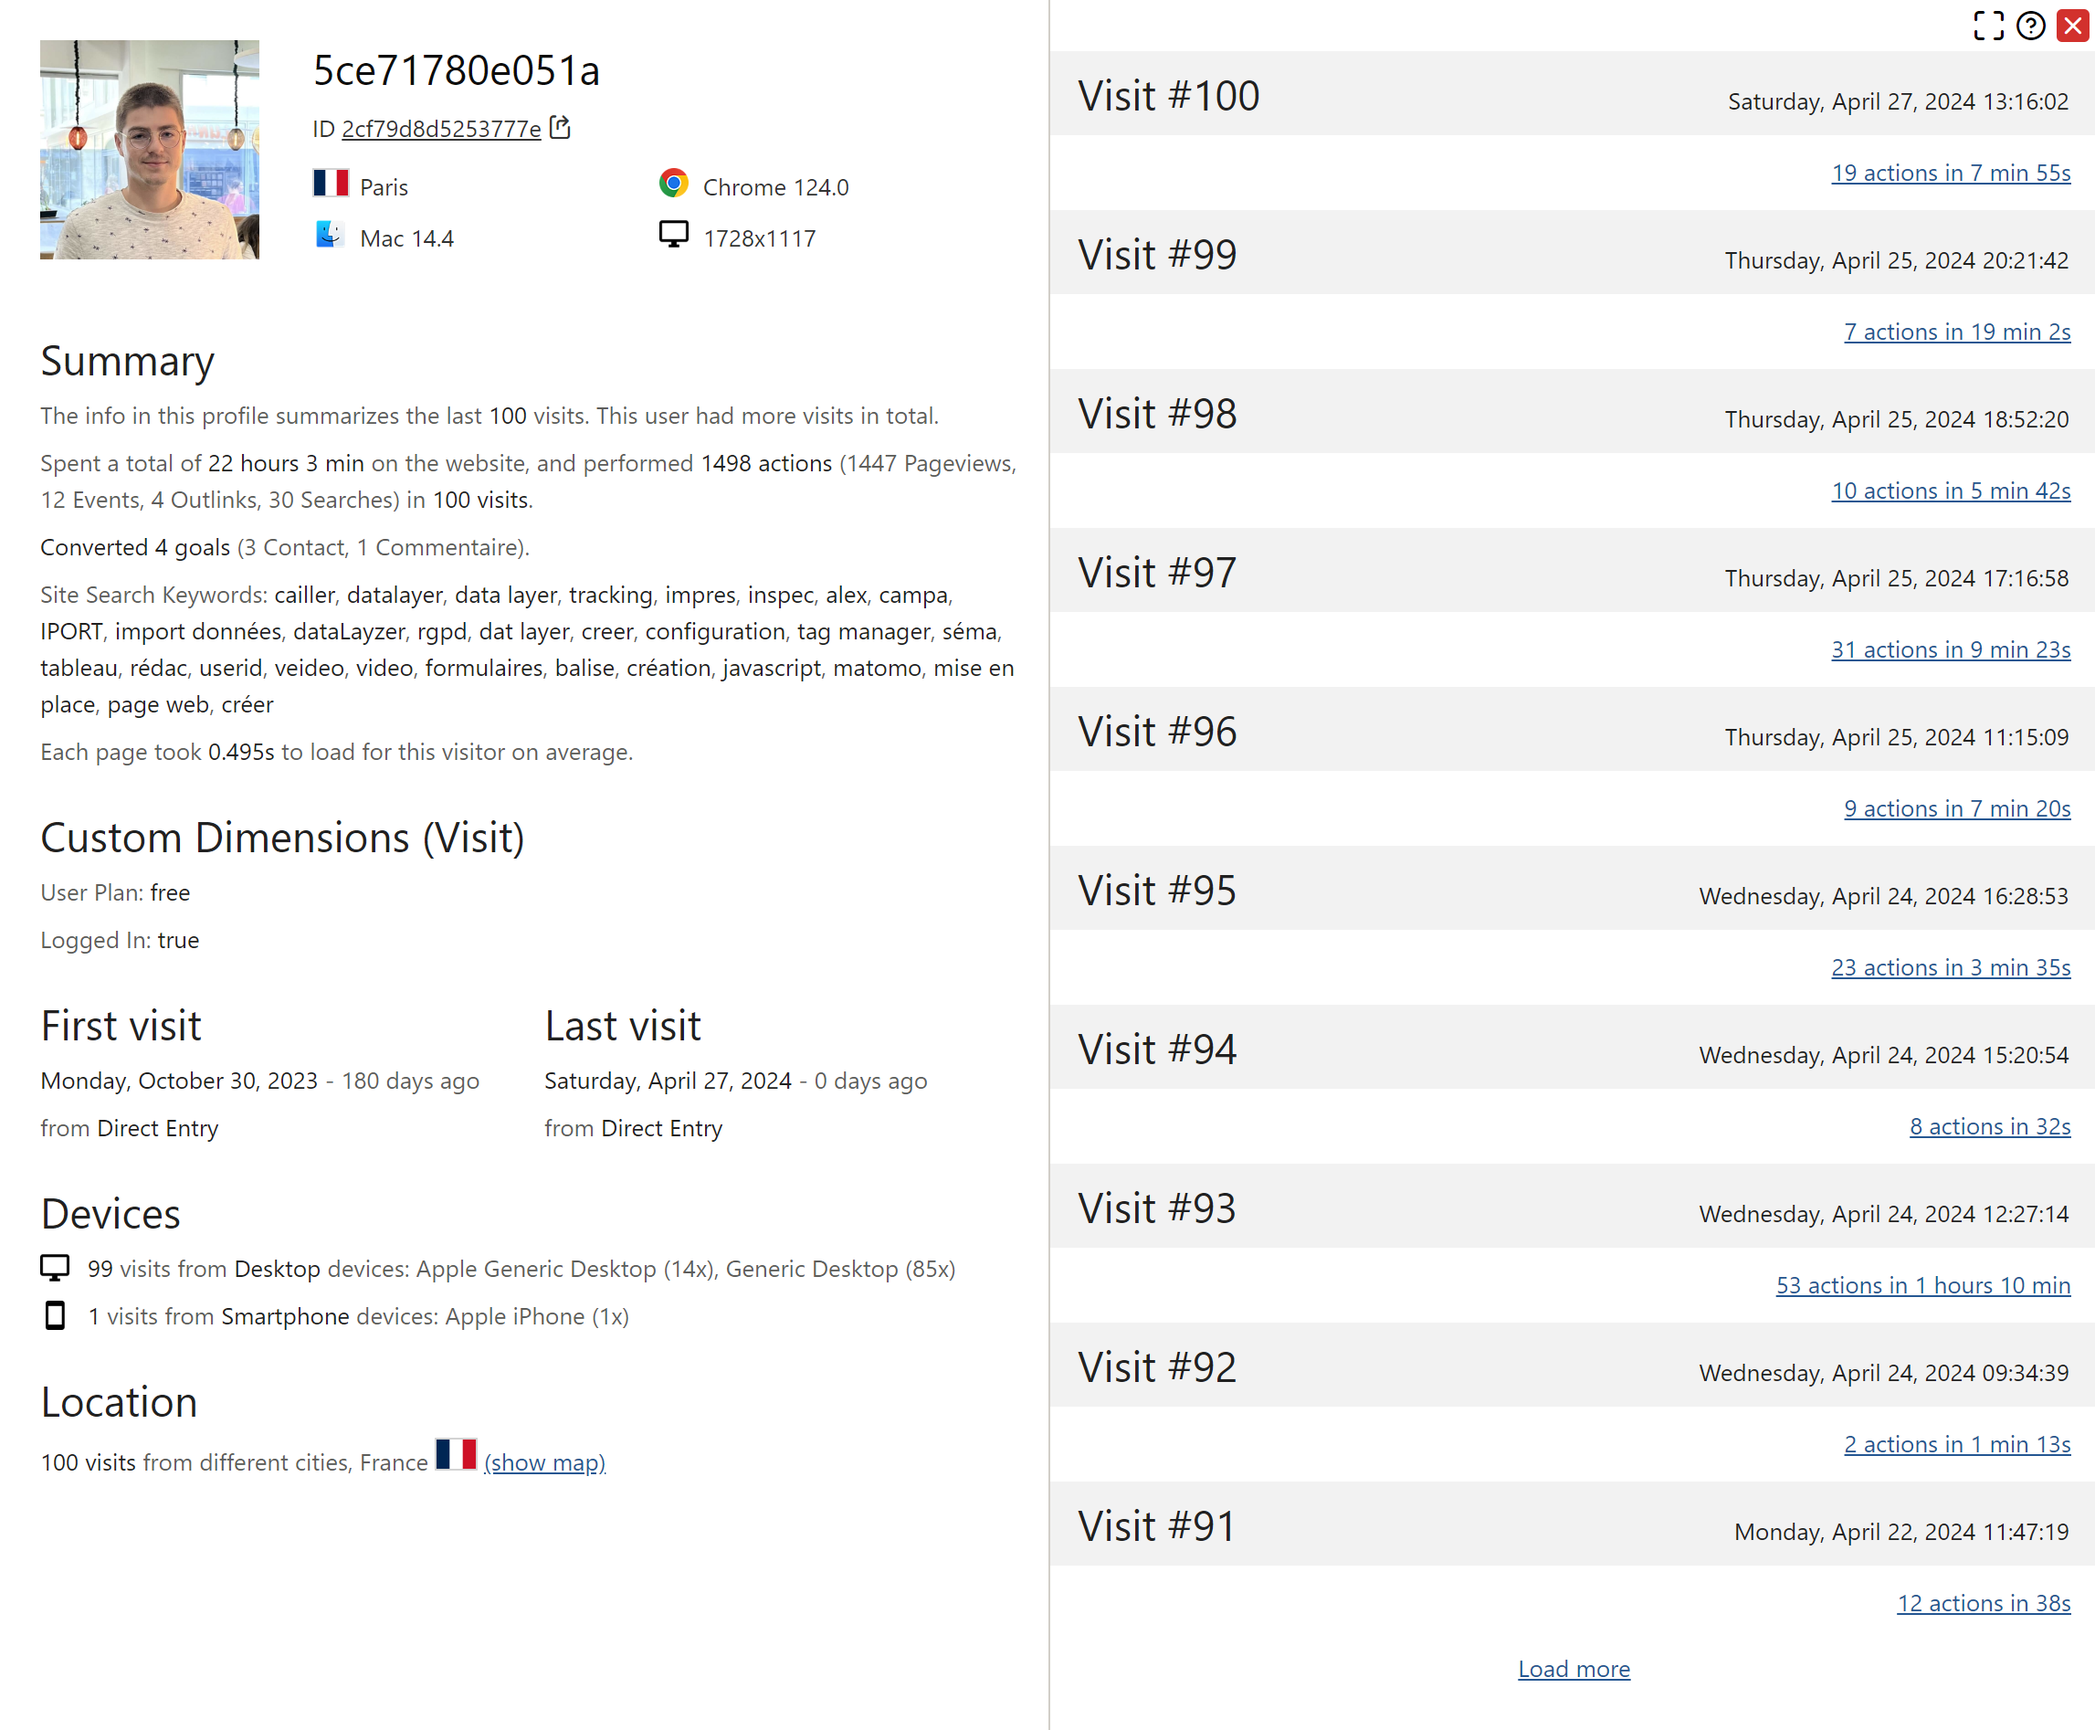
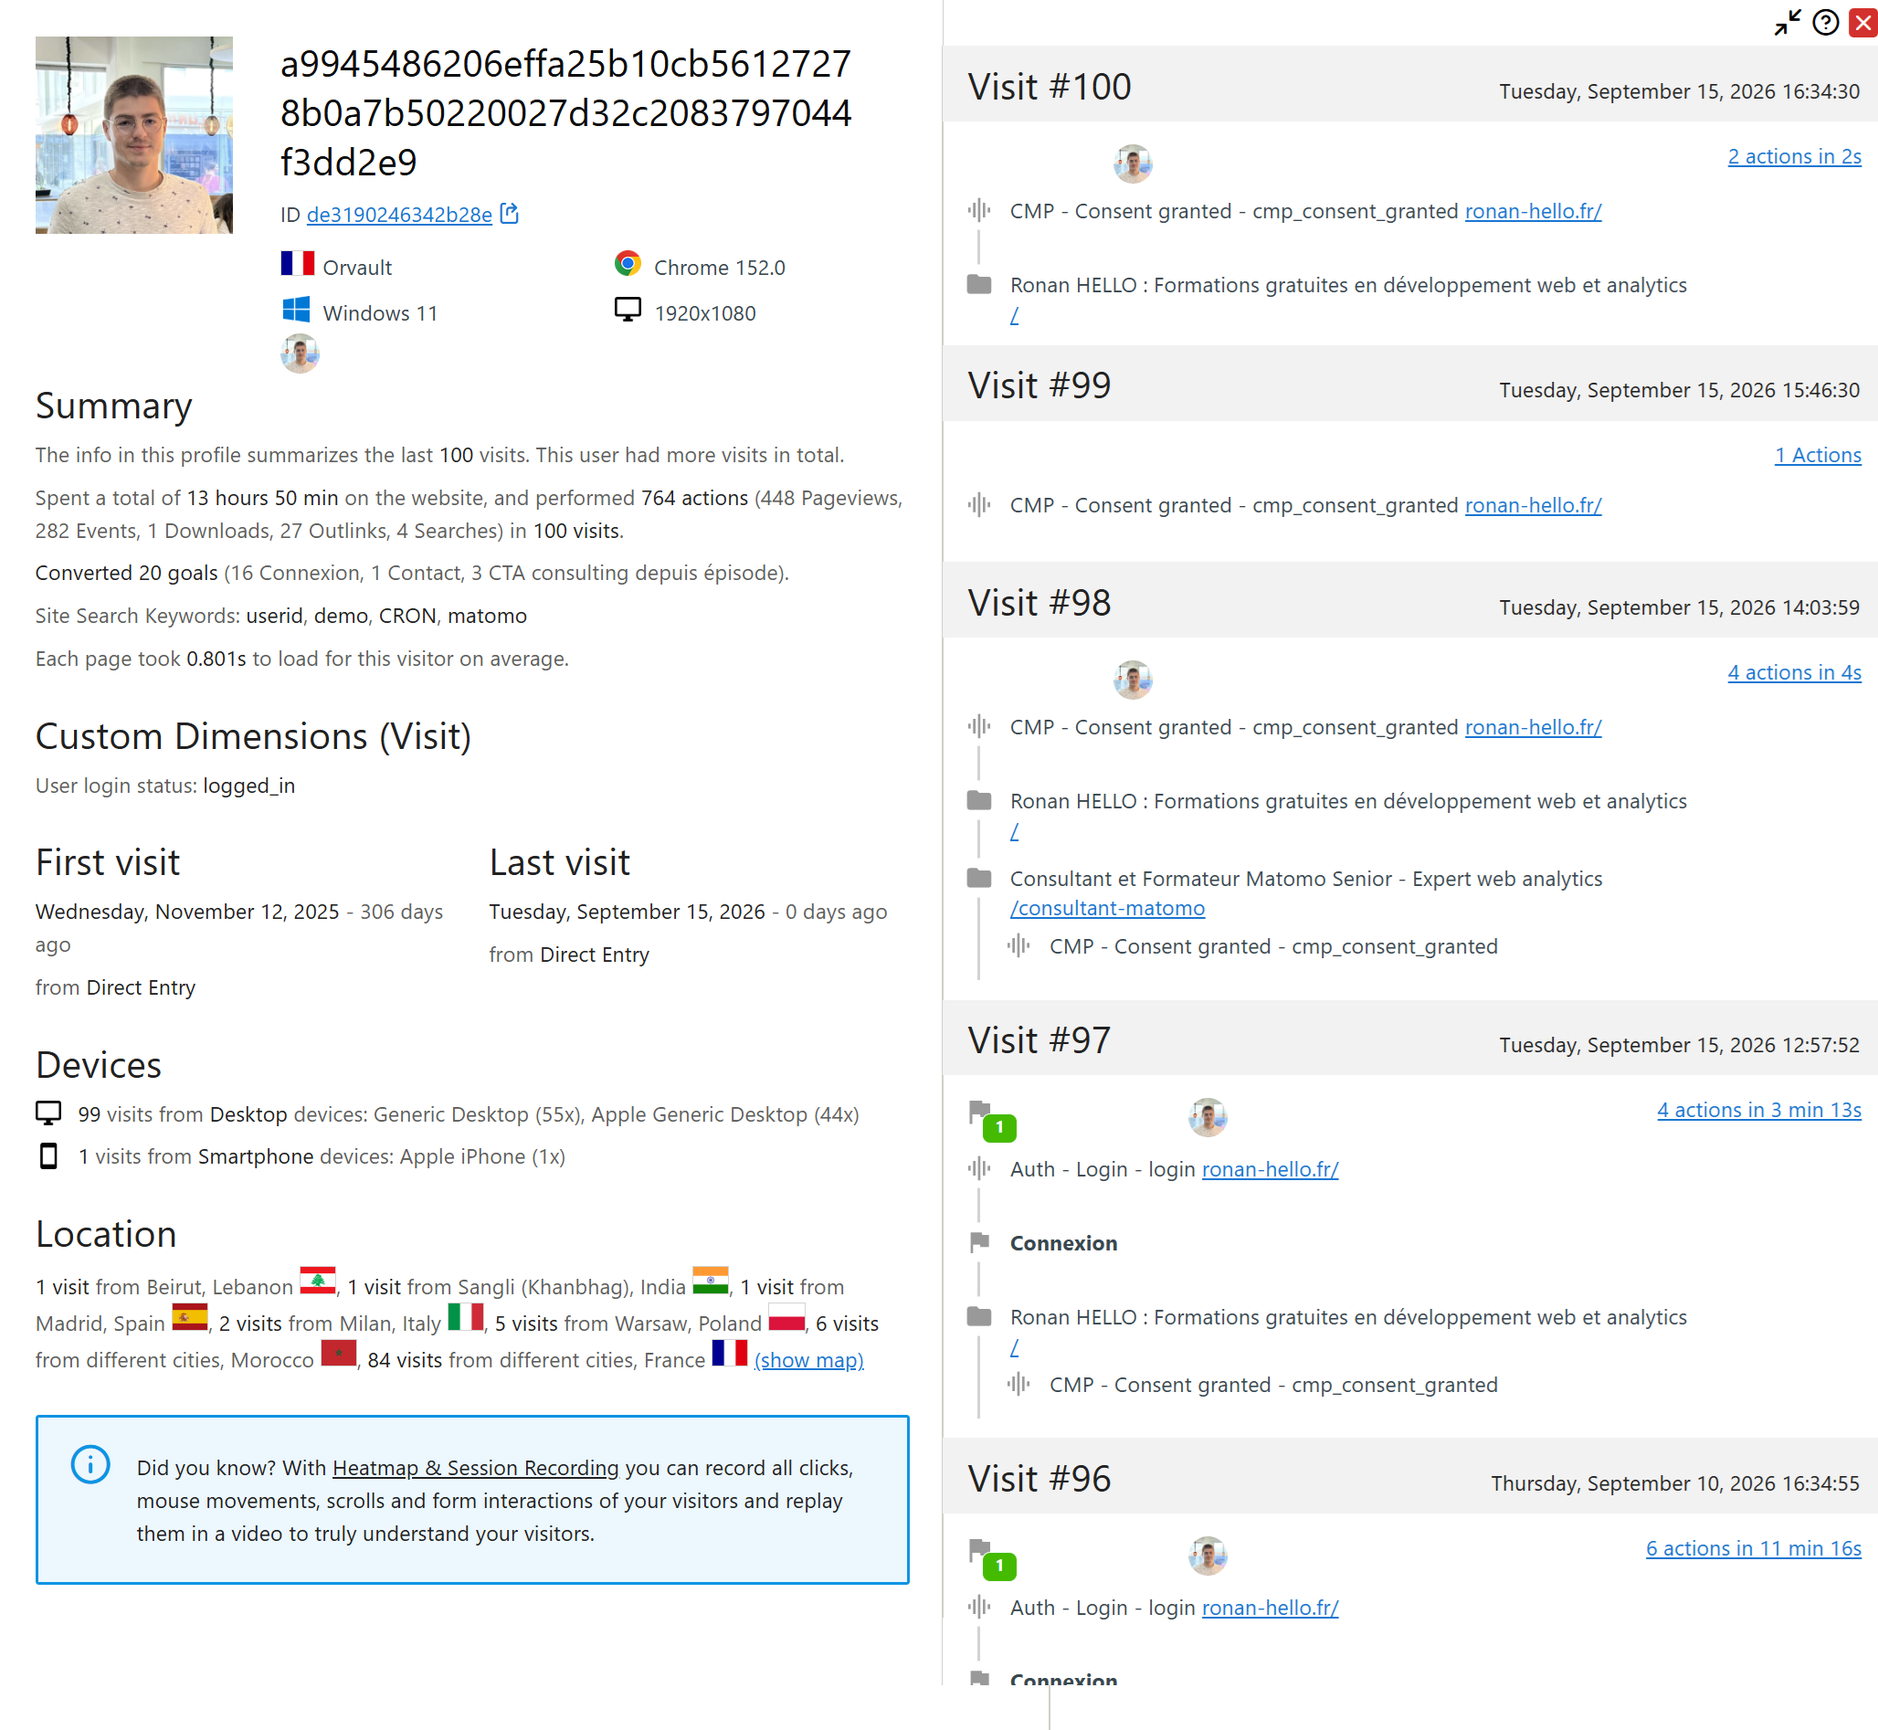
update: Screenshots for Matomo 6, Tag Manager Gravatar hash field
- Update visitor profile screenshot (avatar in profile and visits)
- Add Matomo Configuration variable screenshot with the Gravatar hash field
- Document the user_data.sha256_email_address data layer key

diff --git a/docs/index.md b/docs/index.md
@@ -26,7 +26,7 @@ accepted, any other value is ignored by the plugin.
 
 No Custom HTML tag and no code are needed:
 
-1. Create a **Data-Layer** variable, for example `sha256_email_address`, reading the `sha256_email_address` key.
+1. Create a **Data-Layer** variable reading the key that contains the hash, for example `sha256_email_address` (or `user_data.sha256_email_address` if you use the Google enhanced conversions structure).
 2. Edit your **Matomo Configuration** variable and select this variable in the **Gravatar hash** field, right after the User ID field.
 3. Publish a new version of your container.
 
